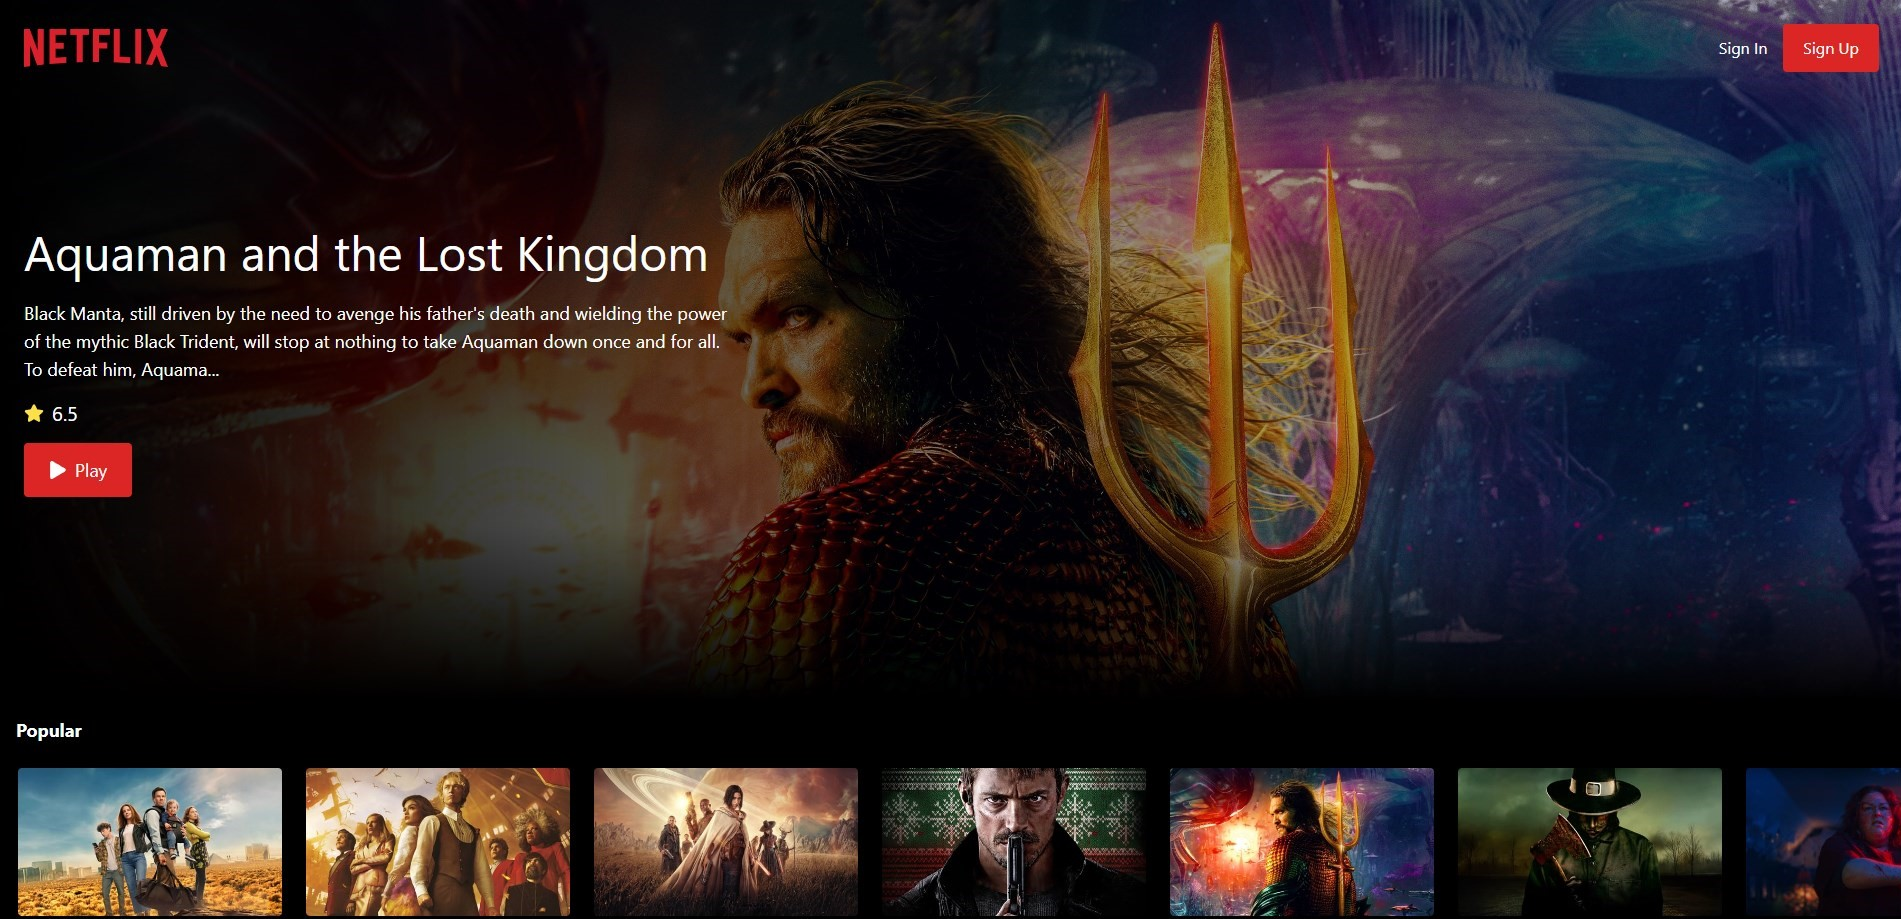
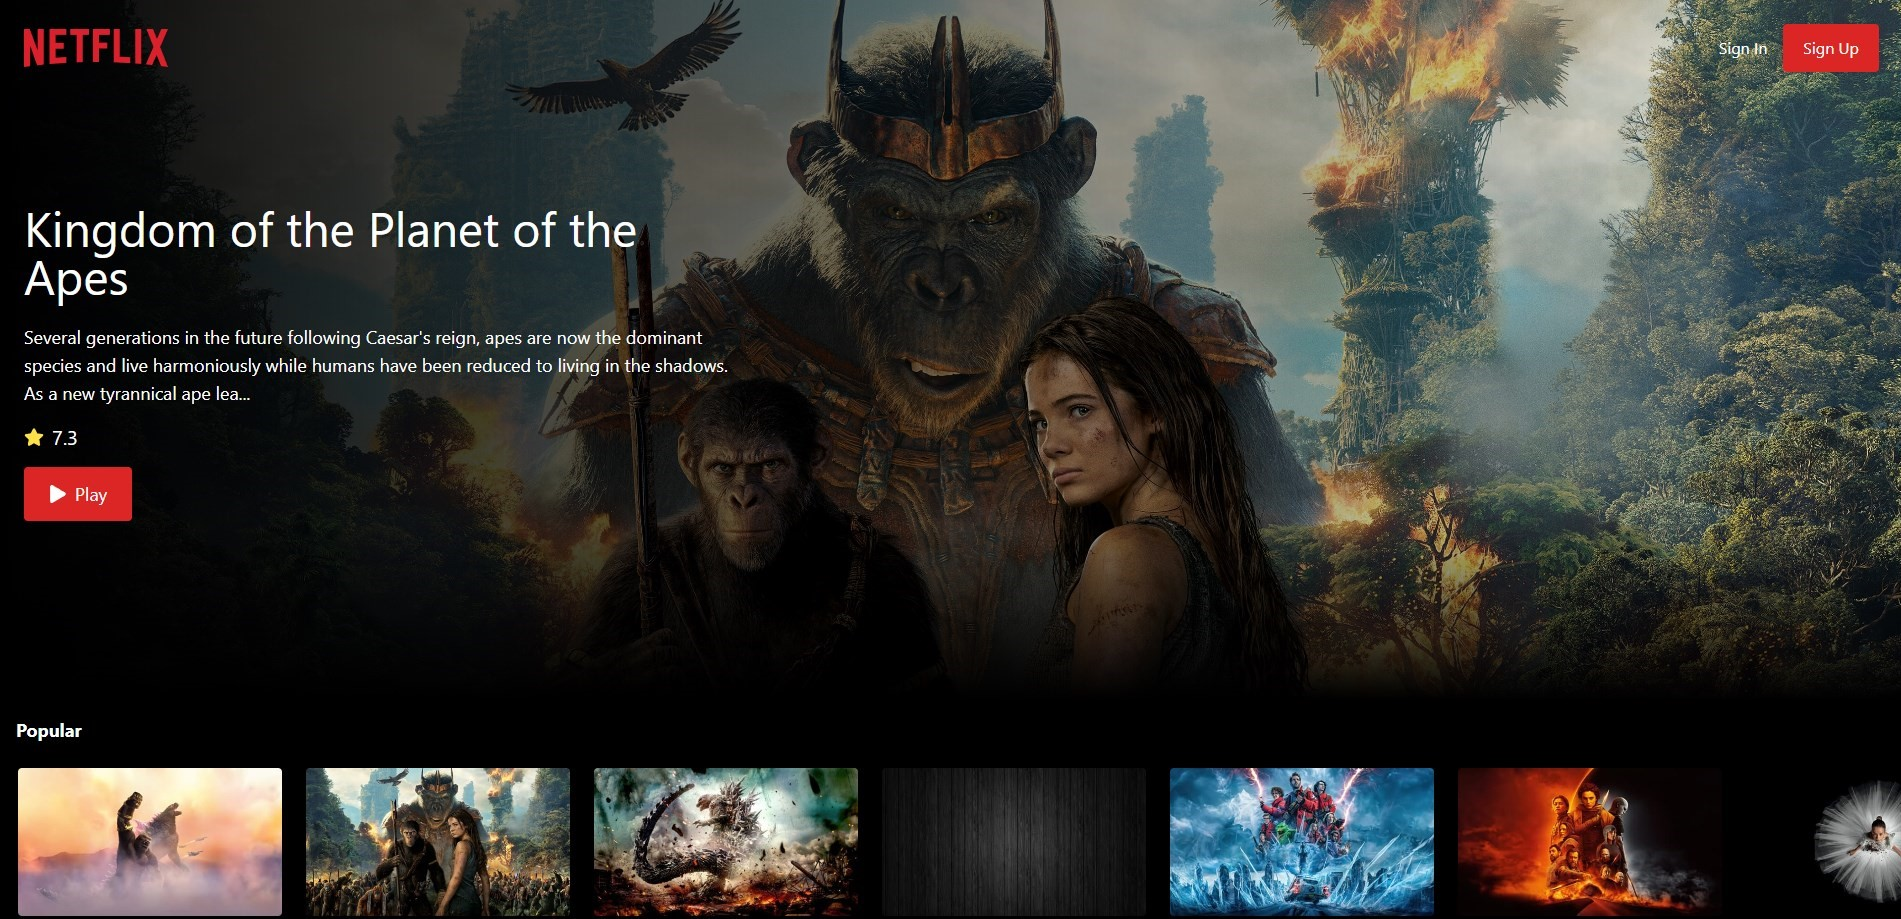
Updated project links. Updated Netflix Clone project image. Re-added Pokemon project

diff --git a/src/components/Projects.jsx b/src/components/Projects.jsx
@@ -23,7 +23,7 @@ const Projects = () => {
           languages="React, TypeScript, Tailwind"
           description="A dynamic React e-Commerce platform specializing in audio peripherals. This site features unique product pages accessible through dynamic routing and enables users to add items to their cart and make purchases through a checkout process backed by secure form validation."
           github="https://github.com/thomasthuynh/audiophile-ecommerce-website"
-          live="https://audiophileamplify.netlify.app/"
+          live="https://audiophile-amplify.vercel.app/"
         />
         <Project
           name="Netflix Clone"
@@ -31,24 +31,24 @@ const Projects = () => {
           languages="React, Firebase, Tailwind"
           description="A full-stack movie trailer application created using React as a front-end for the UI and protected routing, and Firebase as a back-end for user authentication and cloud storage, allowing users to create their own account and save their favourite movies."
           github="https://github.com/thomasthuynh/netflix-trailer-app"
-          live="https://netflixtrailerapp.netlify.app/"
+          live="https://netflix-trailer-app.vercel.app/"
         />
         <Project
           name="Photosnap"
           image={Photosnap}
-          languages="React, TypeScript, SASS"
+          languages="React, TypeScript, SASS/CSS"
           description="A photography based React site utilizing grid layouts for a structured and visually appealing interface coupled with SCSS partials for styling arrangement. The objective was to create a focus on aesthetic design and UX development, ensuring an intuitive and user-friendly experience."
           github="https://github.com/thomasthuynh/photosnap"
-          live="https://photosnapstories.netlify.app/"
+          live="https://photosnap-designs.vercel.app/"
         />
-        {/* <Project 
+        <Project 
         name="Who's That Pokemon?"
         image={WhosThatPokemon}
-        languages="JavaScript, SASS, HTML"
+        languages="JavaScript, SASS/CSS, HTML"
         description="A Pokemon generator built with vanilla JavaScript utilizing the PokeAPI for data implementation. Find information on all your favourite Pokemon through a manual or random search."
         github="https://github.com/junoprojects/whosThatPokemonThomasAndRebecca"
         live="https://whosthatpokemonweb.netlify.app/"
-        /> */}
+        />
       </div>
     </section>
   );
